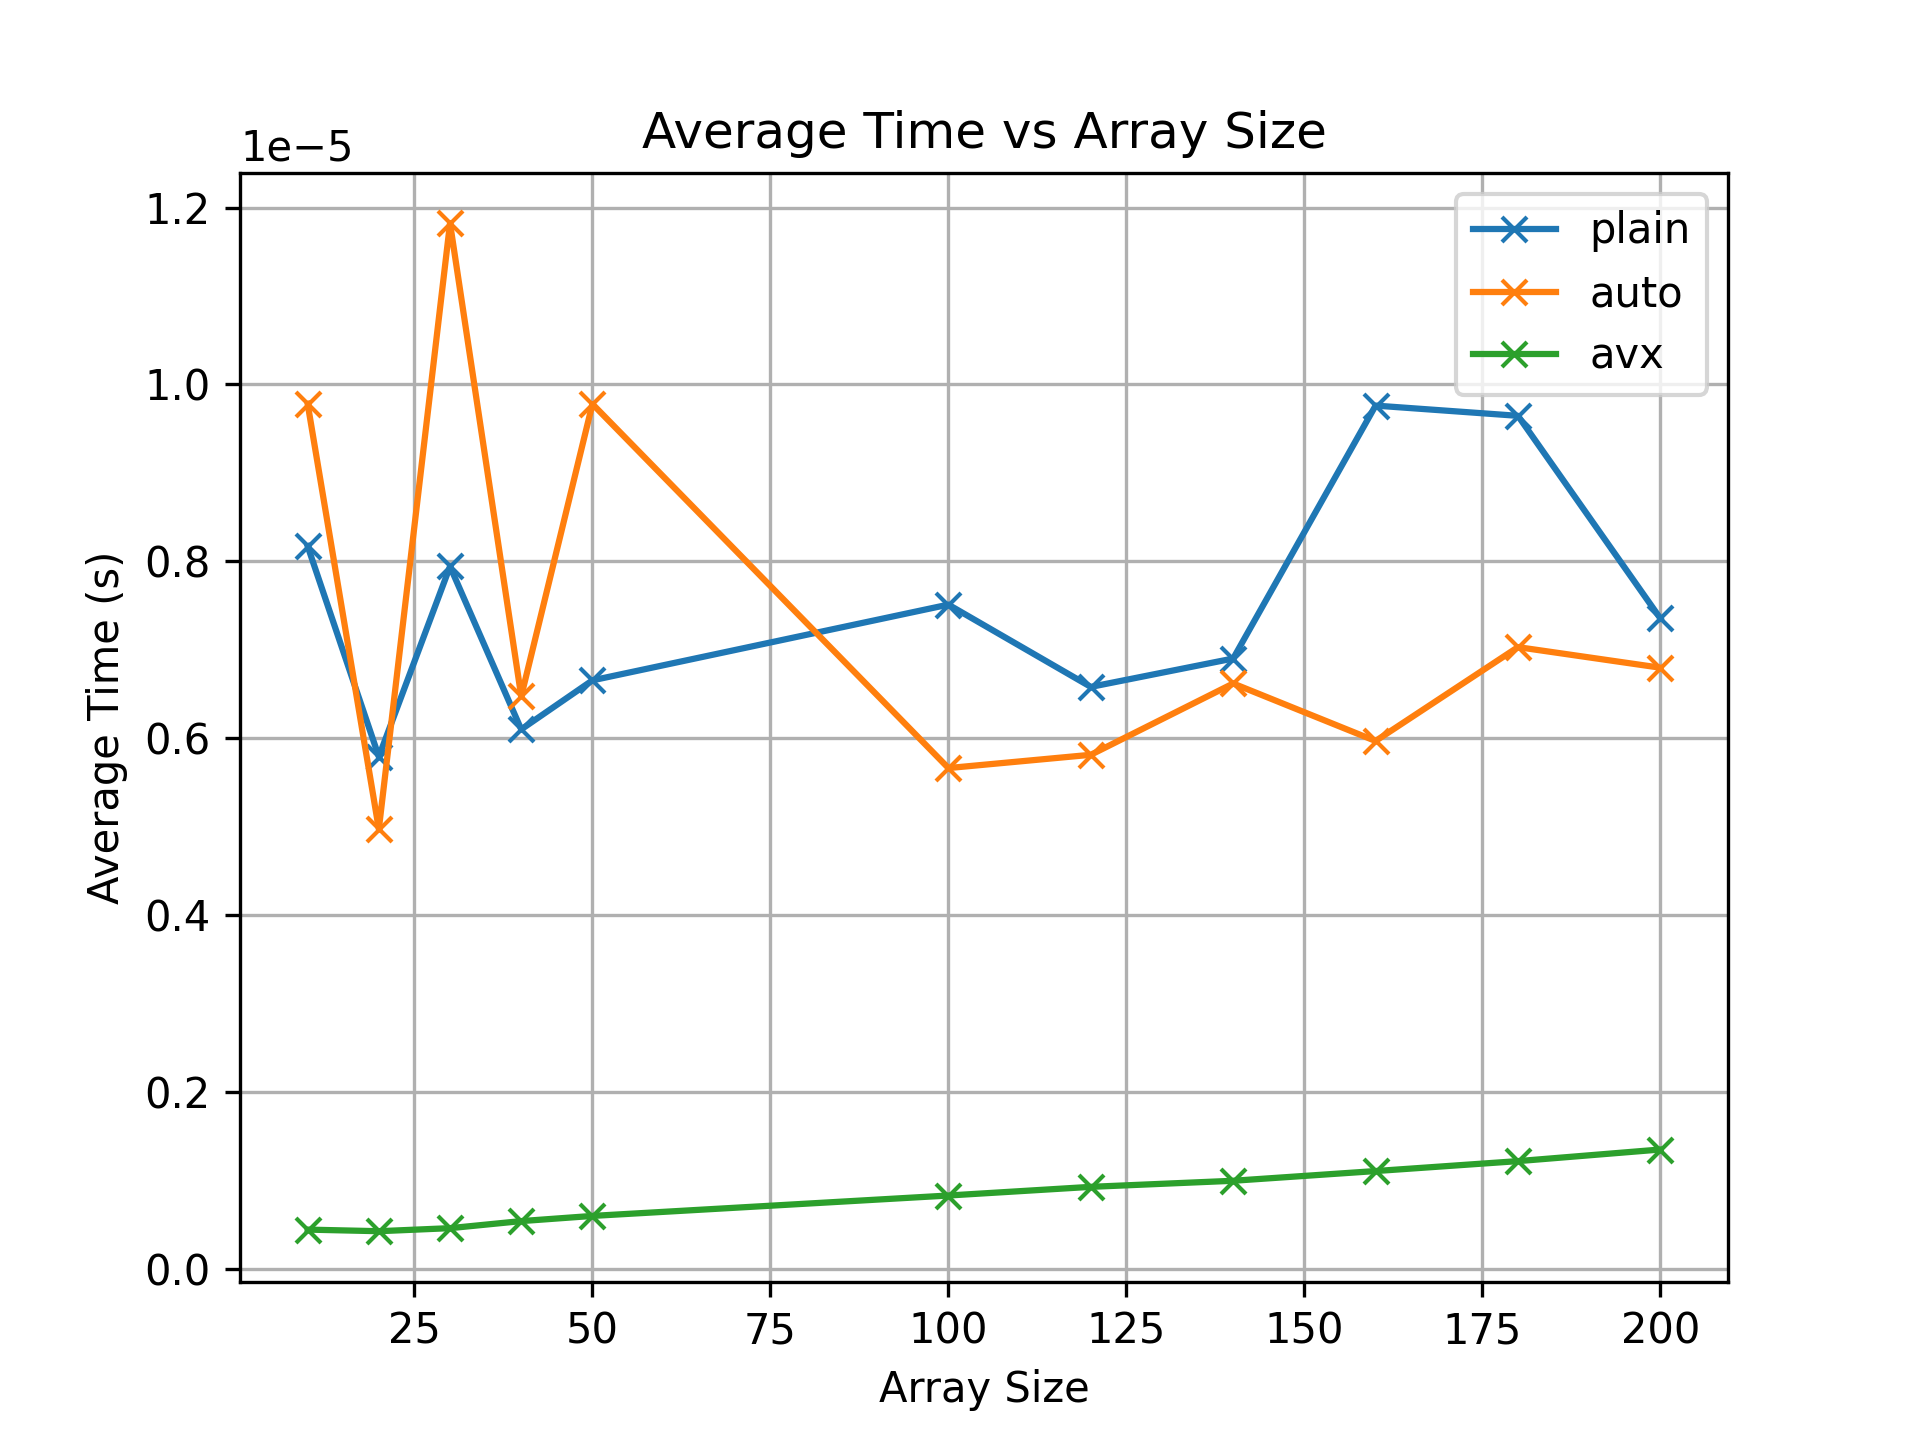
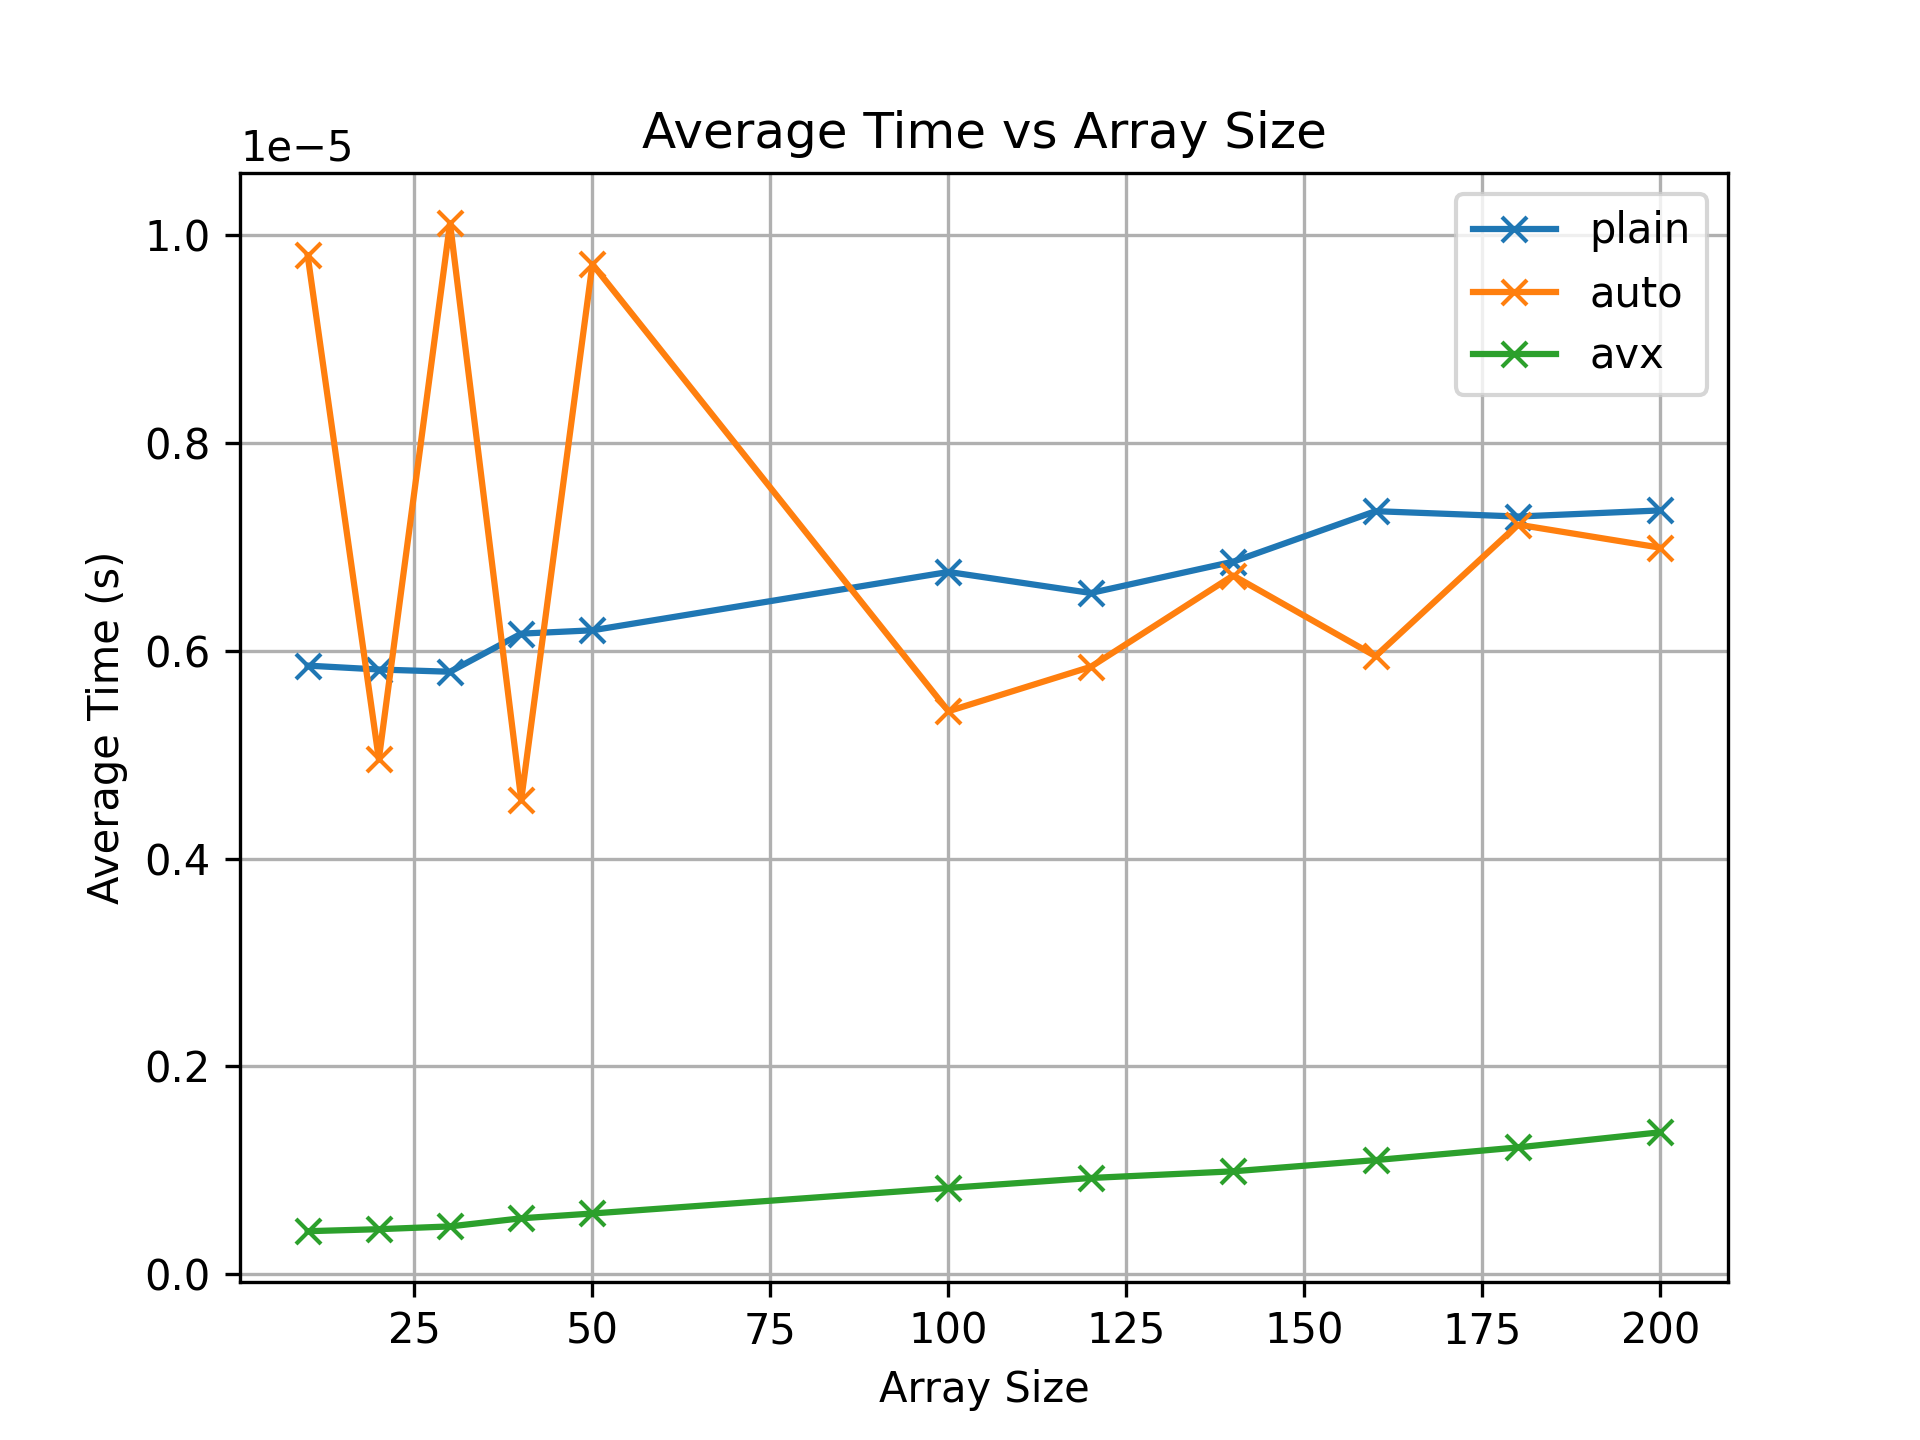
notes for the report and a 'stabilized version of the results'

diff --git a/assignment1/compute_avg.py b/assignment1/compute_avg.py
@@ -14,6 +14,10 @@ def calculate_averages(csv_path, output_path=None):
             time = float(row[2])
             times_by_size[size].append(time)
 
+    for size in times_by_size:
+        times_by_size[size].sort()
+        if len(times_by_size[size]) > 4:
+            times_by_size[size] = times_by_size[size][2:-2]
     for size, times in times_by_size.items():
         avg_time = sum(times) / len(times)
         print(f"{size},{avg_time}")

diff --git a/assignment1/notes.md b/assignment1/notes.md
@@ -1,9 +1,46 @@
 # STUFF TO REMEMBER IN THE REPORT
+## Introduzione
+Presentare le tre versioni, dire qual'e' lo scopo dell'assignment, spiegare la divisione degli esperimenti (piccoli per vedere se una delle versioni introducesse dell'overhead significativo che perde di importanza con l'aumentare delle dimensioni del softmax)
 ## Speedup:
-- it's a bit random at the begining because with small number avx is better, than reaches a stable point
-- auto: 2.75
-- AVX:  3.5
+- steedy state
+    - auto vs plain: 2.75
+    - AVX  vs plain: 3.5
+    - AVX  vs auto : ??
+- altre osservazioni:
+    - inizialmente è molto più veloce AVX poi perde un po', che sia colpa della chache? solo supposizioni
+    - auto nella fase iniziale non è super stabile, nessuno sa il perché però poi si riprende
+
 
 ## Plots:
 - small vector unstable, just see that avx is lower and stable
 - big vector: insert log log scale plot or normal scale plot
+
+## Code
+### AVX
+- disclaimer: servono almeno 8 elementi
+- ciclo principale
+- gestione somma/massimo finale alla Torquati
+- gestione massimo non multiplo di 8
+- gestione chiusura con le maschere
+- cose che non sono andate nella versione finale:
+    - aligned memory
+    - due tipi di maschere
+### Plain
+- credo nulla era tutto fornito dal prof
+- spero non andasse ottimizzata, cioè non puoi dividere più velocemente...
+### Auto
+- provato un po' di flag che non facevano
+- la matematica veloce ha risolto quasi tutto
+- __restrict ha risolto quello che non andava
+- aligned memory mistery
+
+## Considerazioni finali
+Ci siamo tutti divertiti un sacco, avevo paura che il mio avx scritto con il sangue andasse più lento che quello automaticamente fatto con il compilatore ma non è il caso.
+Altra nota: i valori non sono uguali alla millesima cifra per errori fatti dalla macchina, ma c'è da notare che neanche softmax plain è perfetto, infatti se sommiamo tutti gli elementi contenuti in output vediamo che nessuna delle implementazioni è in grado di raggiungere 1; a volte ci si avvicina più uno a volte l'altro.
+AVX è meglio ma è un casino, non mettere un flag che fa andare più veloce è follia.
+
+## TODO
+- controllare che autovectorization abbia fatto tutto per davvero
+- controllare se allineare la memoria rallenta davvero
+- accettare meno di 8 elementi in AVX version
+- misurare avx contro auto
